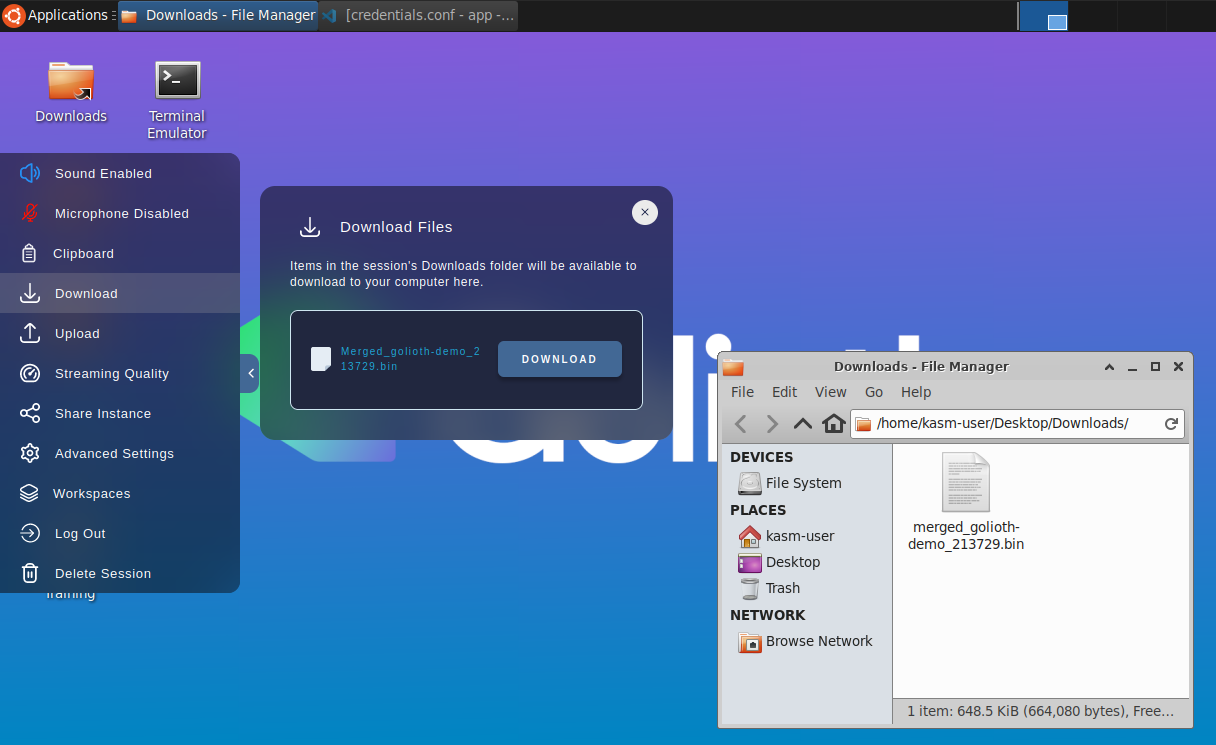
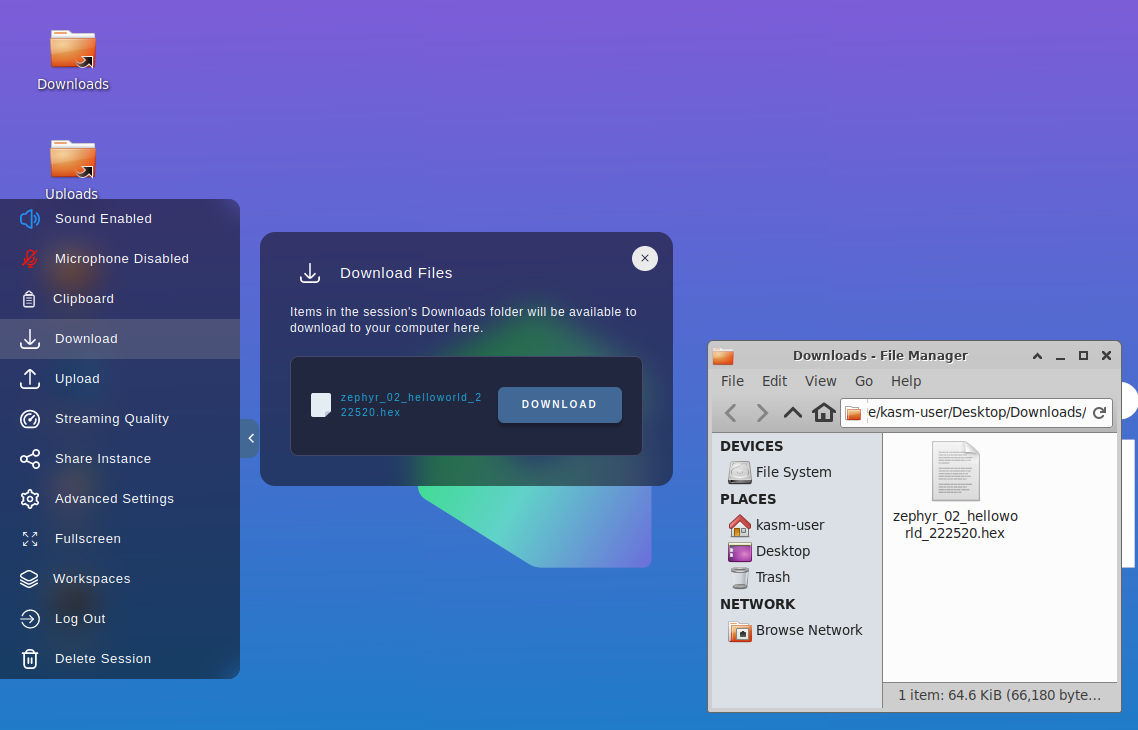
update Download from Kasm partial
Update partial and image to reflect nRF naming/files.

diff --git a/website/docs/_partials/download-from-kasm.md b/website/docs/_partials/download-from-kasm.md
@@ -4,11 +4,16 @@
 
 ![How to download binaries from Kasm](./assets/kasm_download_binary.png)
 
-Because Kasm is a virtual machine running in the cloud, we can not directly program the MagTag connected to your local machine. Instead, we will download the binary so that your local machine can program that file to the MagTag in the next step.
+Because Kasm is a virtual machine running in the cloud, we can not directly
+program the device connected to your local machine. Instead, we will download
+the binary so that your local machine can program that file to the device in the
+next step.
 
 The filename includes the folder name of the app you built, along with a
 timestamp. So your download will look something like this:
-`merged_golioth-demo_213729.bin`.
+`zephyr_02_hellowworld_222520.hex`.
 
-The image above shows the left sidebar menu of Kasm with the Download widget selected. Click the "DOWNLOAD" button next to the `merged_<appfolder>_<hhmmss>.bin` file to download your recently compiled code.
+The image above shows the left sidebar menu of Kasm with the Download widget
+selected. Click the "DOWNLOAD" button next to the
+`zephyr_<appfolder>_<hhmmss>.hex` file to download your recently compiled code.
 </details>
